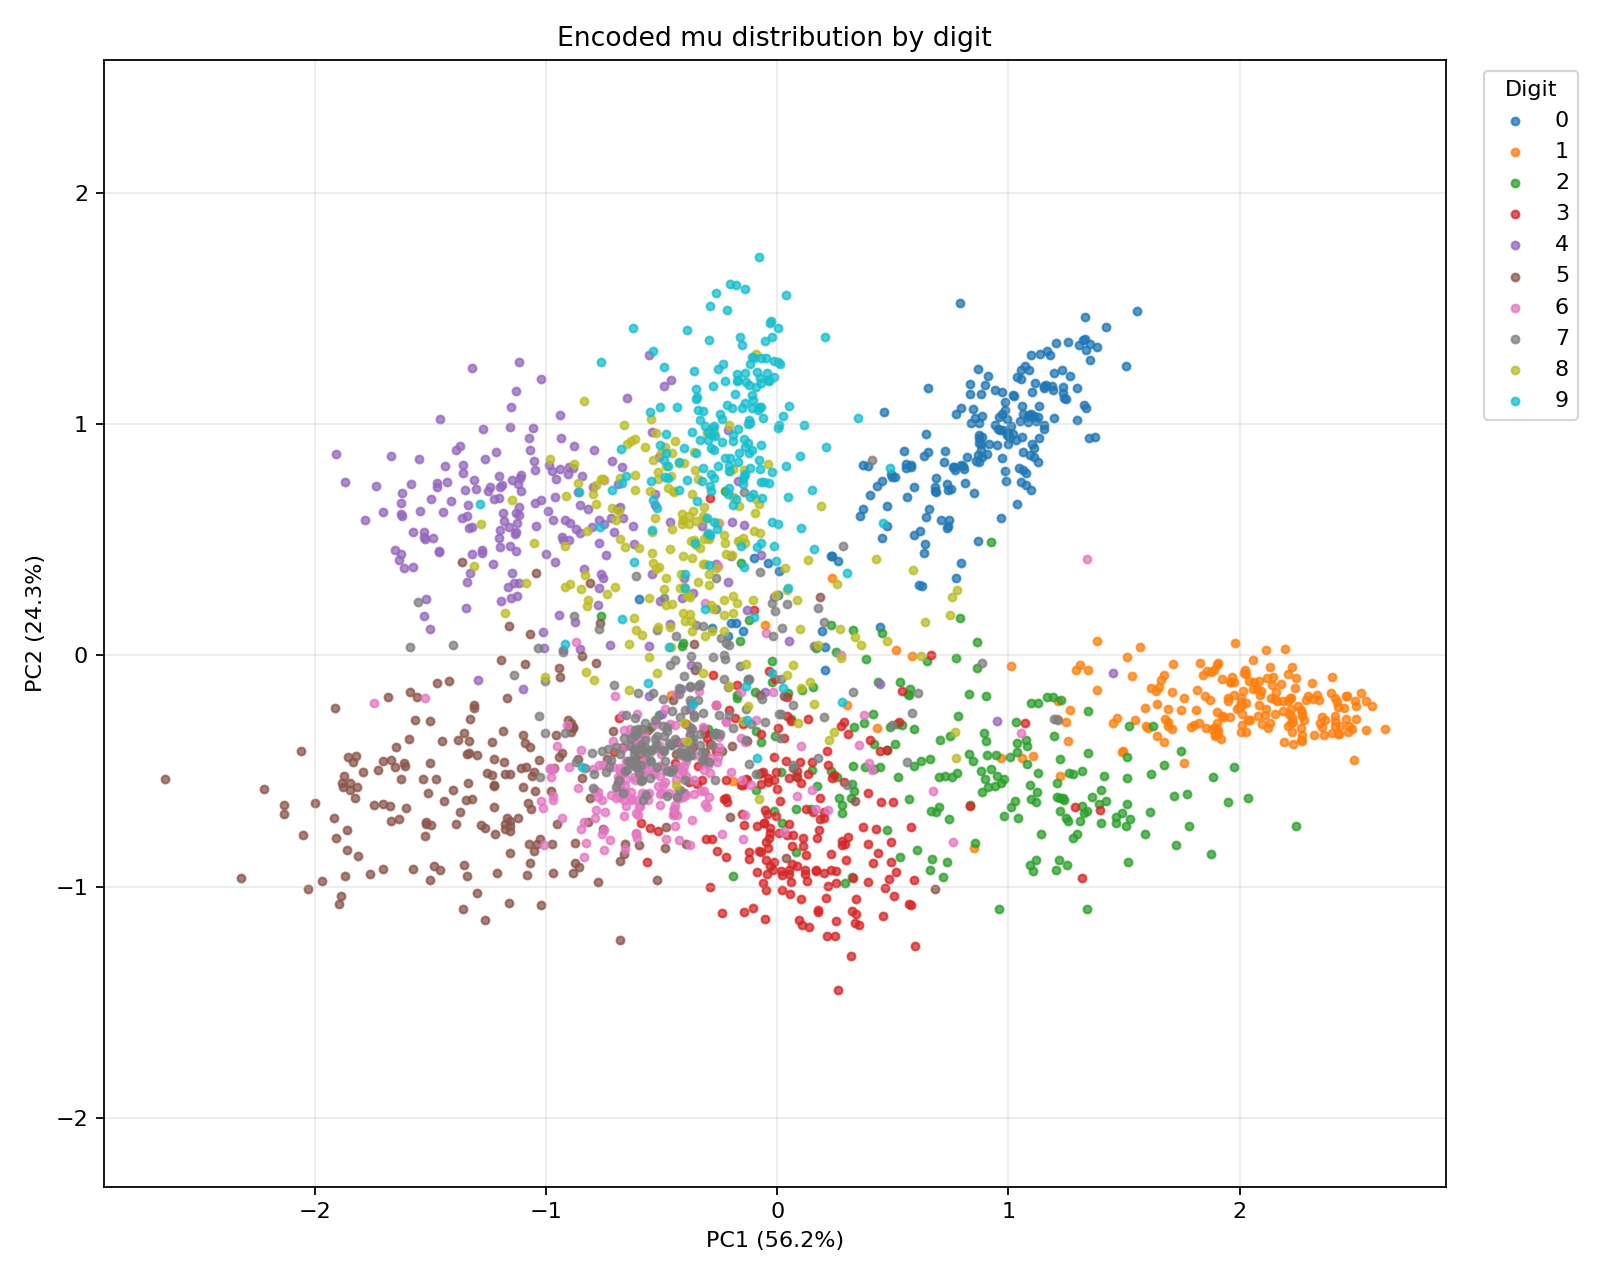
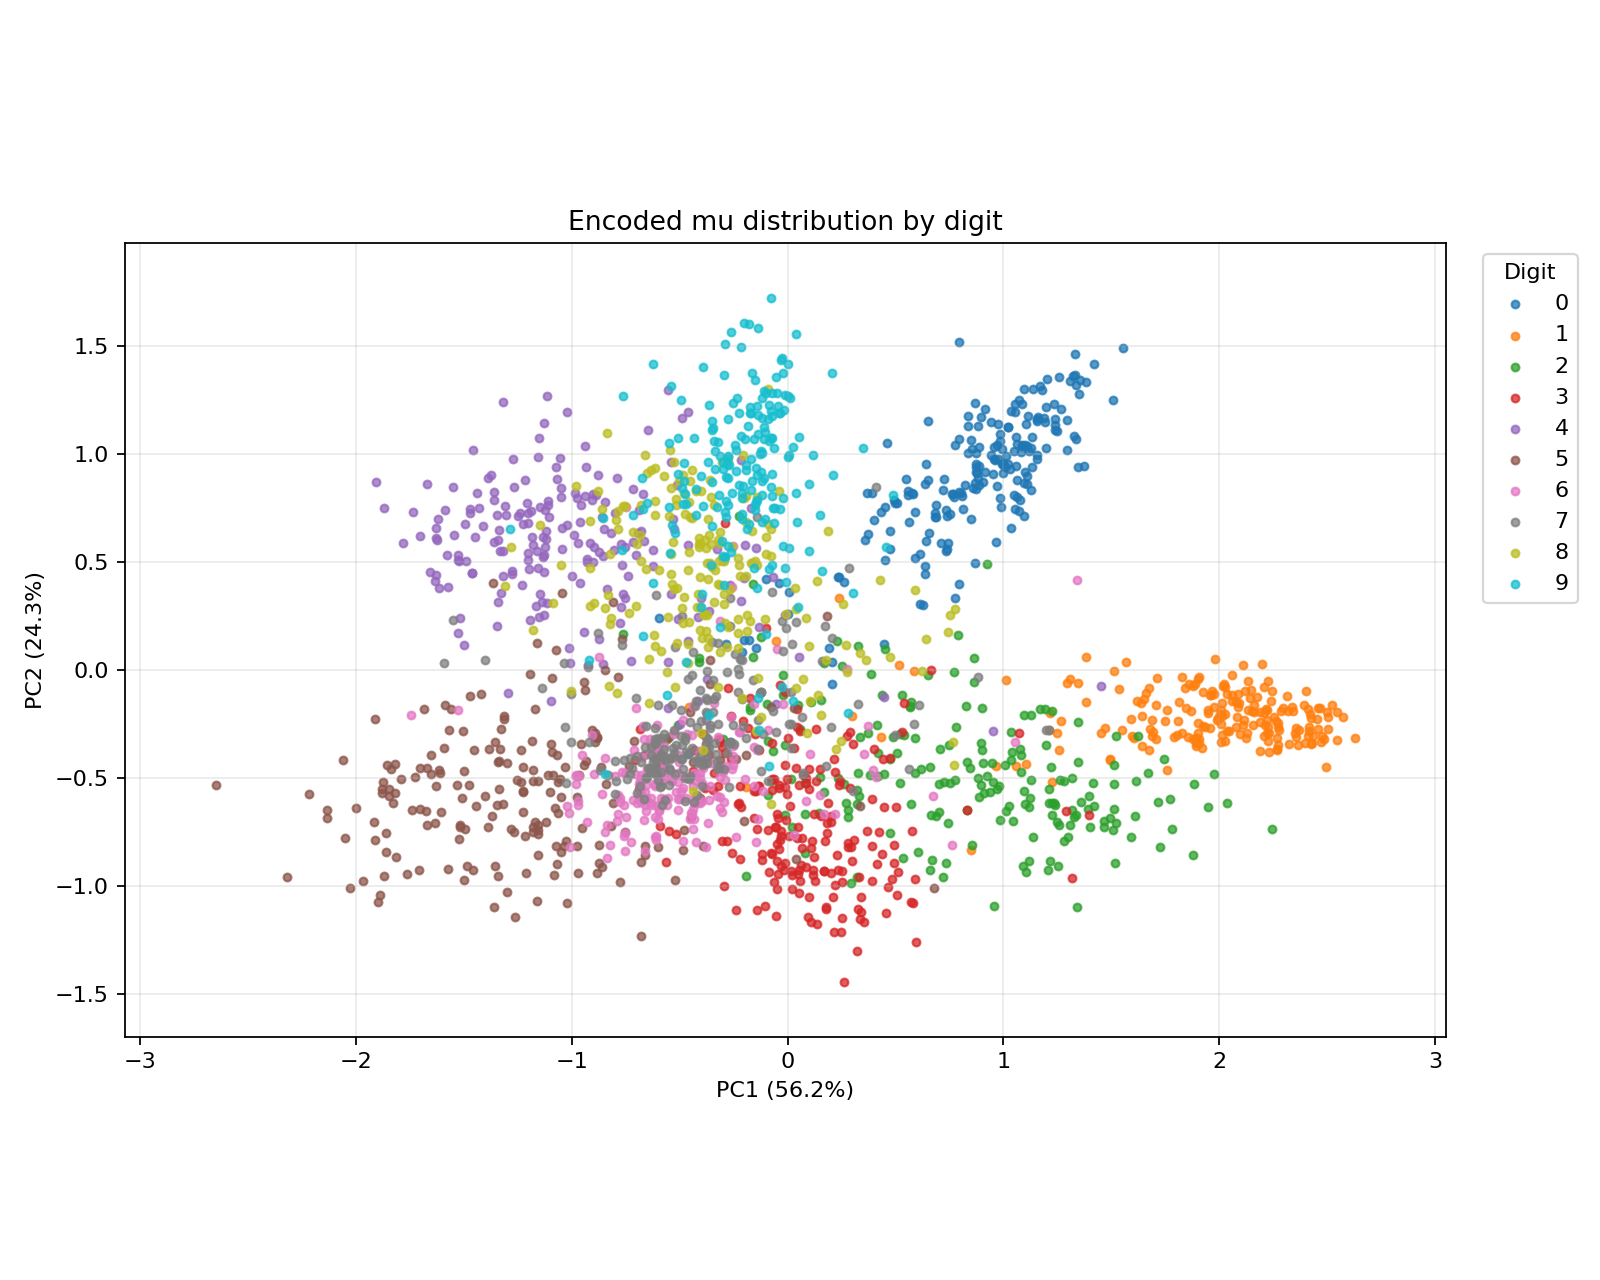
Match latent sample plot limits to mu plot

diff --git a/phoneme2img/sekitori_mnist-master/analyze_checkpoint.py b/phoneme2img/sekitori_mnist-master/analyze_checkpoint.py
@@ -58,7 +58,15 @@ def _fit_pca(points, max_points=10000):
     return pca
 
 
-def _plot_latent_mu(mu_np, labels_np, out_path, pca):
+def _padded_limits(xy, pad_ratio=0.08):
+    mins = xy.min(axis=0)
+    maxs = xy.max(axis=0)
+    span = np.maximum(maxs - mins, 1e-6)
+    pad = span * pad_ratio
+    return (mins[0] - pad[0], maxs[0] + pad[0]), (mins[1] - pad[1], maxs[1] + pad[1])
+
+
+def _plot_latent_mu(mu_np, labels_np, out_path, pca, axis_limits):
     xy = pca.transform(mu_np)
 
     plt.figure(figsize=(10, 8))
@@ -72,7 +80,10 @@ def _plot_latent_mu(mu_np, labels_np, out_path, pca):
             color=DIGIT_COLORS[digit],
             label=str(digit),
         )
-    plt.gca().set_aspect("equal", adjustable="datalim")
+    ax = plt.gca()
+    ax.set_xlim(axis_limits[0])
+    ax.set_ylim(axis_limits[1])
+    ax.set_aspect("equal", adjustable="box")
     plt.title("Encoded mu distribution by digit")
     plt.xlabel(f"PC1 ({pca.explained_variance_ratio_[0] * 100:.1f}%)")
     plt.ylabel(f"PC2 ({pca.explained_variance_ratio_[1] * 100:.1f}%)")
@@ -83,7 +94,7 @@ def _plot_latent_mu(mu_np, labels_np, out_path, pca):
     plt.close()
 
 
-def _plot_latent_samples(z_np, labels_np, out_path, pca):
+def _plot_latent_samples(z_np, labels_np, out_path, pca, axis_limits):
     flat_z = z_np.reshape(-1, z_np.shape[-1])
     repeated_labels = np.repeat(labels_np, z_np.shape[1])
     xy = pca.transform(flat_z)
@@ -99,7 +110,10 @@ def _plot_latent_samples(z_np, labels_np, out_path, pca):
             color=DIGIT_COLORS[digit],
             label=str(digit),
         )
-    plt.gca().set_aspect("equal", adjustable="datalim")
+    ax = plt.gca()
+    ax.set_xlim(axis_limits[0])
+    ax.set_ylim(axis_limits[1])
+    ax.set_aspect("equal", adjustable="box")
     plt.title("Sampled latent z distribution by input digit (mu PCA axes)")
     plt.xlabel(f"PC1 ({pca.explained_variance_ratio_[0] * 100:.1f}%)")
     plt.ylabel(f"PC2 ({pca.explained_variance_ratio_[1] * 100:.1f}%)")
@@ -177,12 +191,20 @@ def analyze(checkpoint_path, out_dir, per_digit, z_samples, grid_samples):
 
     epoch = ckpt.get("epoch", "unknown")
     latent_pca = _fit_pca(mu_np)
-    _plot_latent_mu(mu_np, labels_np, os.path.join(out_dir, f"epoch_{epoch}_latent_mu_pca.png"), latent_pca)
+    latent_axis_limits = _padded_limits(latent_pca.transform(mu_np))
+    _plot_latent_mu(
+        mu_np,
+        labels_np,
+        os.path.join(out_dir, f"epoch_{epoch}_latent_mu_pca.png"),
+        latent_pca,
+        latent_axis_limits,
+    )
     _plot_latent_samples(
         z_np,
         labels_np,
         os.path.join(out_dir, f"epoch_{epoch}_latent_z_samples_pca.png"),
         latent_pca,
+        latent_axis_limits,
     )
 
     src_images = []

diff --git a/phoneme2img/sekitori_mnist-master/EXPERIMENT_REPORT.md b/phoneme2img/sekitori_mnist-master/EXPERIMENT_REPORT.md
@@ -147,7 +147,9 @@ analysis/random_teacher/epoch_0200/
 観察結果:
 
 - PCA軸はencoder `mu` の散布図でfitした軸と同一です。
-- したがって、この図では `mu` の各点の周囲に、実際にサンプルされた `z` がどの程度広がるかを同じ座標系で比較できます。
+- 描画範囲もencoder `mu` の散布図と同一です。
+- したがって、この図では `mu` の各点の周囲に、実際にサンプルされた `z` がどの程度広がるかを同じ座標系・同じ表示範囲で比較できます。
+- 範囲外に出る `z` は表示上は切れますが、これは `mu` 分布に対する広がりを見やすくするためです。
 - `mu` に比べて、`z` サンプル分布は大きく重なっています。
 - これはencoderが各入力に対して広い分散を出していることを示します。
 - 複数正解をカバーするという意味では望ましい方向ですが、重なりが大きすぎるとdecoder出力がぼやけます。
